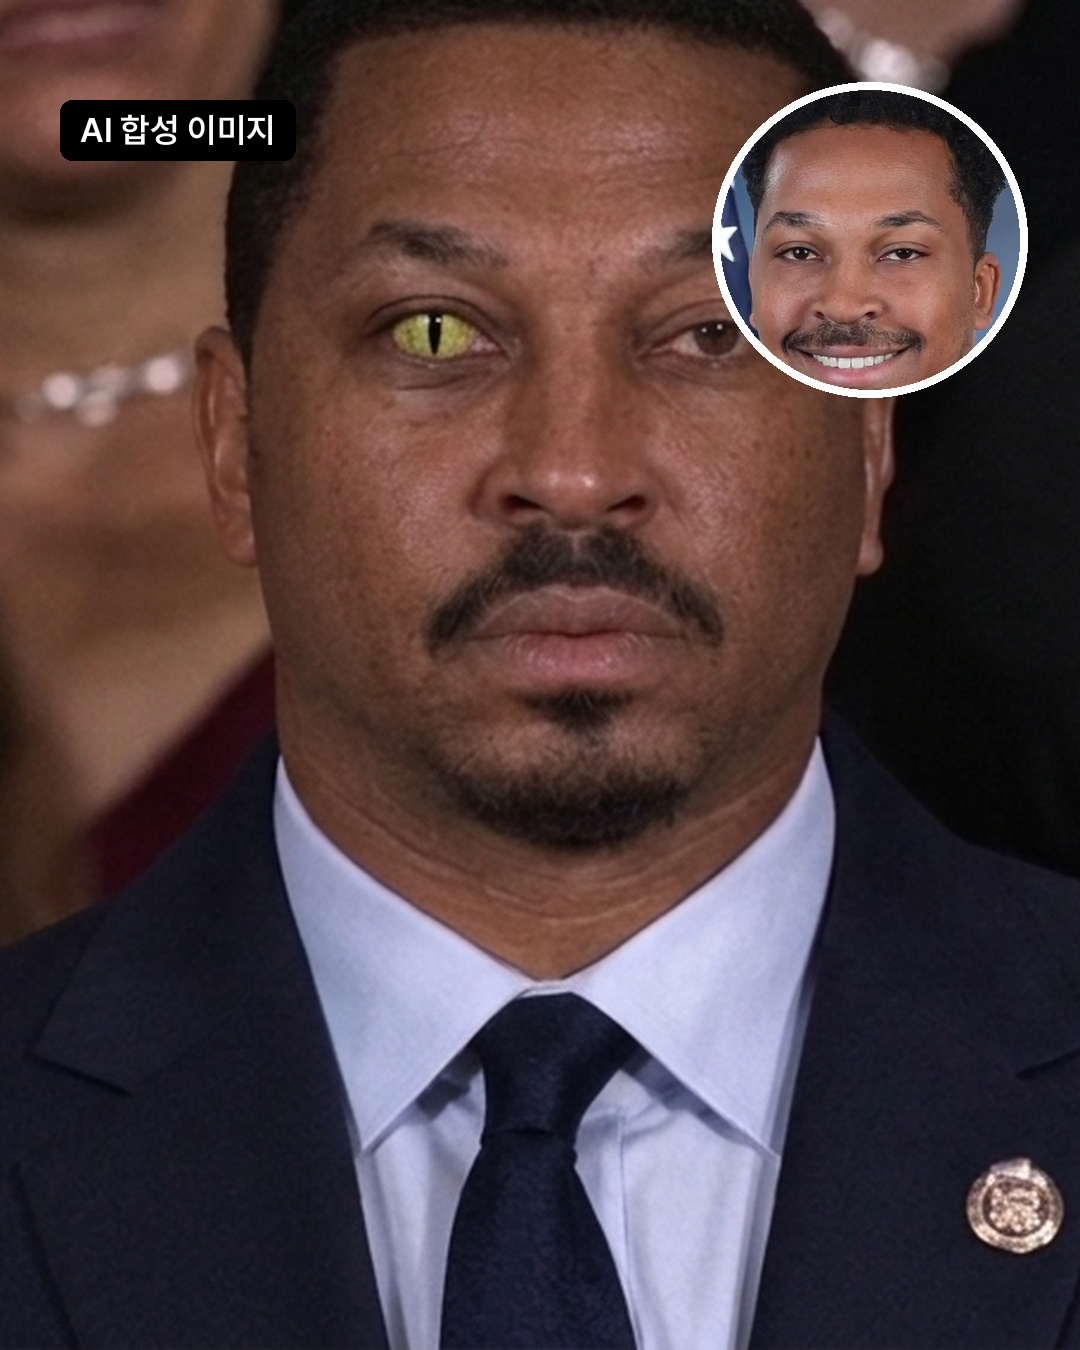
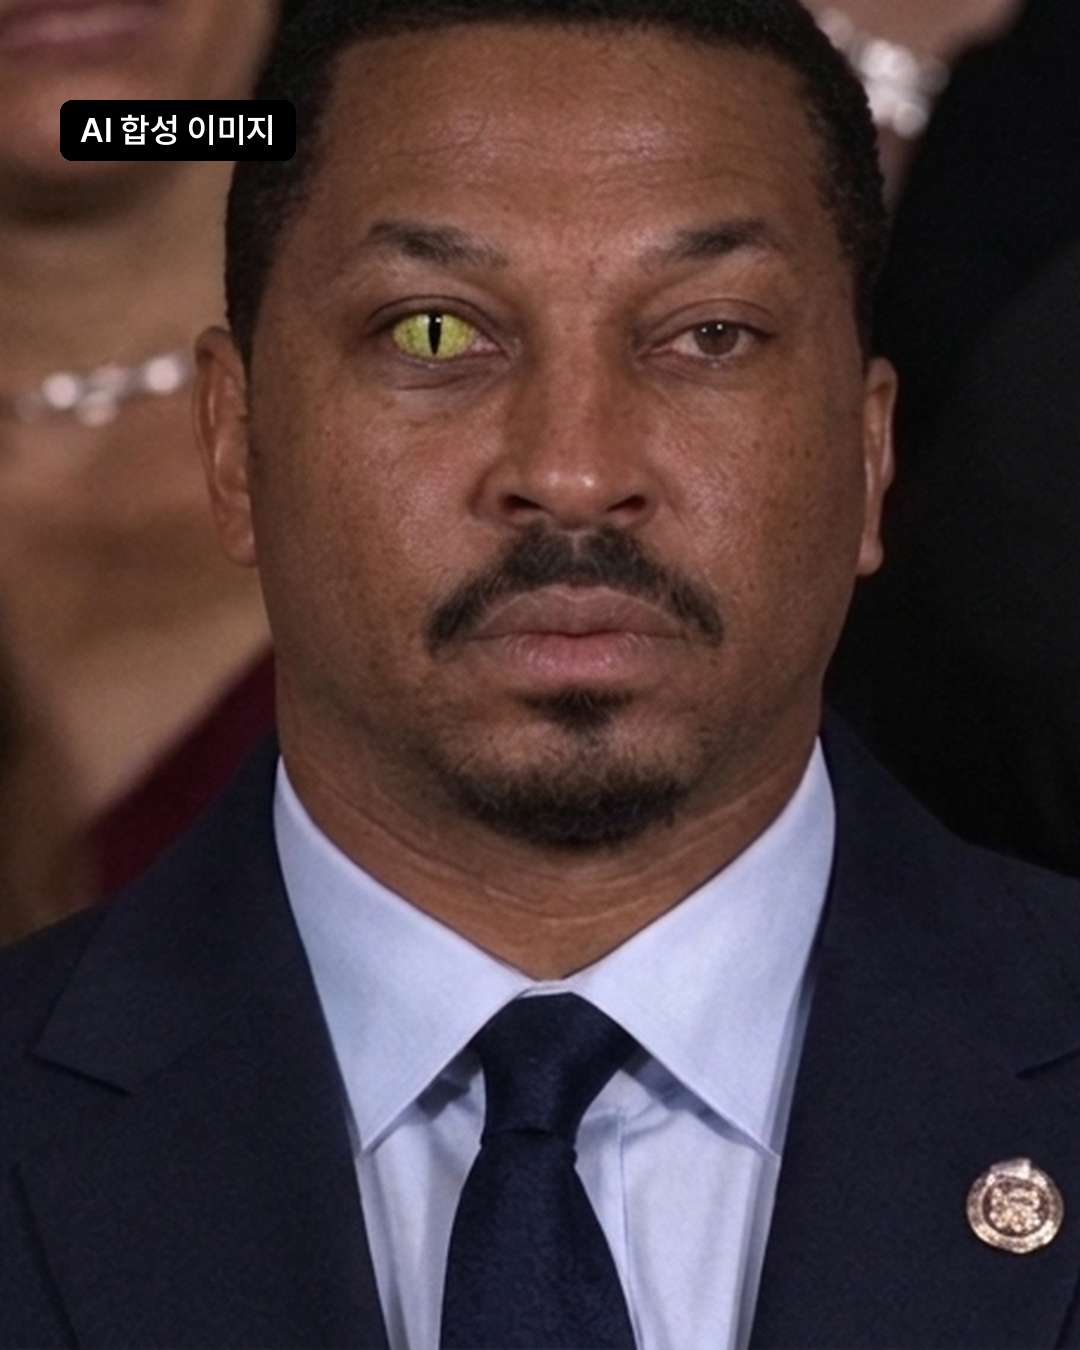
manual: 랩틸리언 표지 동그라미 뺌

Changed region(s): [[0.6417, 0.0622, 0.9778, 0.3111]]

diff --git a/media/20261123-nypost-rep/build_cards.py b/media/20261123-nypost-rep/build_cards.py
@@ -82,8 +82,7 @@ bg = ImageOps.fit(op(bgsrc), (W, H), Image.LANCZOS, centering=(.5, .5))
 rt = op("rt1.png"); face = rt.crop((1090 - 200, 40, 1090 + 200, 440)).resize((300, 300), Image.LANCZOS)
 D0 = 300; mk = Image.new("L", (D0, D0), 0); ImageDraw.Draw(mk).ellipse((0, 0, D0 - 1, D0 - 1), fill=255)
 x0, y0 = W - D0 - 60, 90
-ImageDraw.Draw(bg).ellipse((x0 - 8, y0 - 8, x0 + D0 + 7, y0 + D0 + 7), fill=(255, 255, 255))
-bg.paste(face, (x0, y0), mk)
+# 동그라미 프로필은 2026.11.23 사용자 지시로 뺌
 if bgsrc == "eye_up.png":  # 사용자가 준 AI 합성 이미지(눈만 파충류 눈으로 바꿈) → 실제 사진으로 오해 없게 표시
     d = ImageDraw.Draw(bg); f = F("SemiBold", 34); t = "AI 합성 이미지"; tw = d.textlength(t, font=f)
     d.rounded_rectangle((60, 100, 60 + tw + 40, 160), 12, fill=(0, 0, 0)); d.text((80, 130), t, font=f, fill=(255, 255, 255), anchor="lm")
